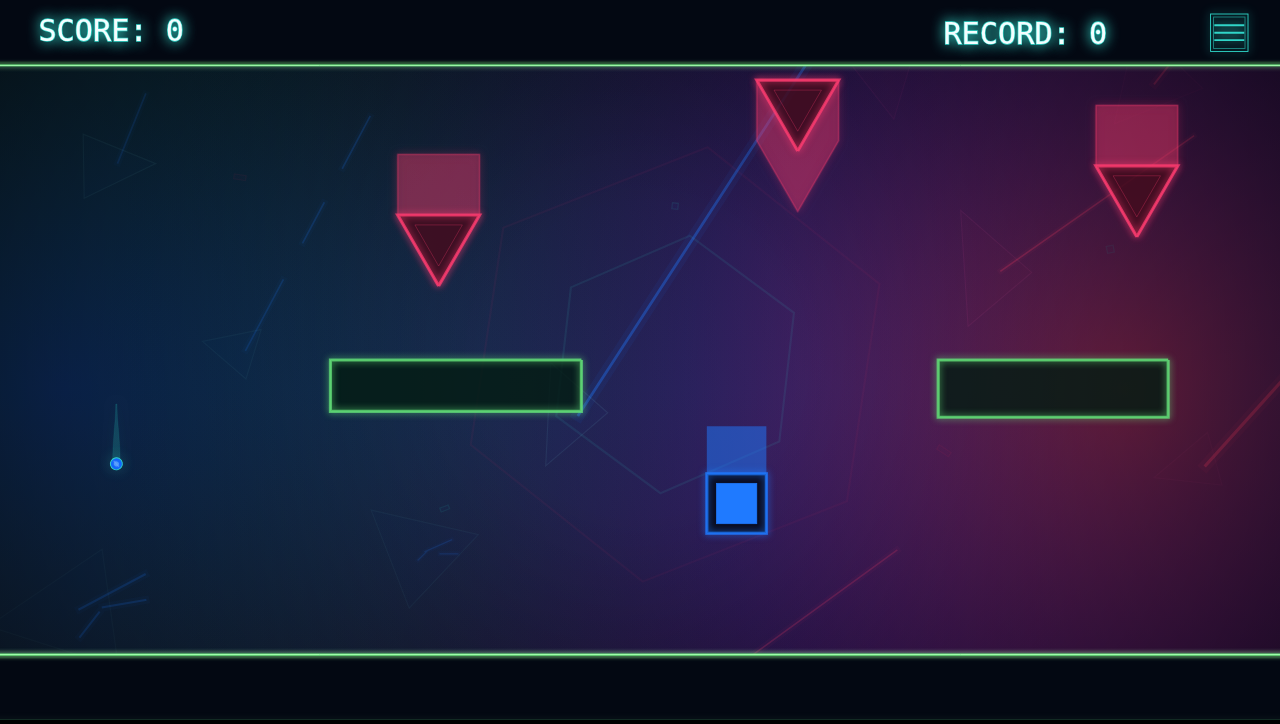
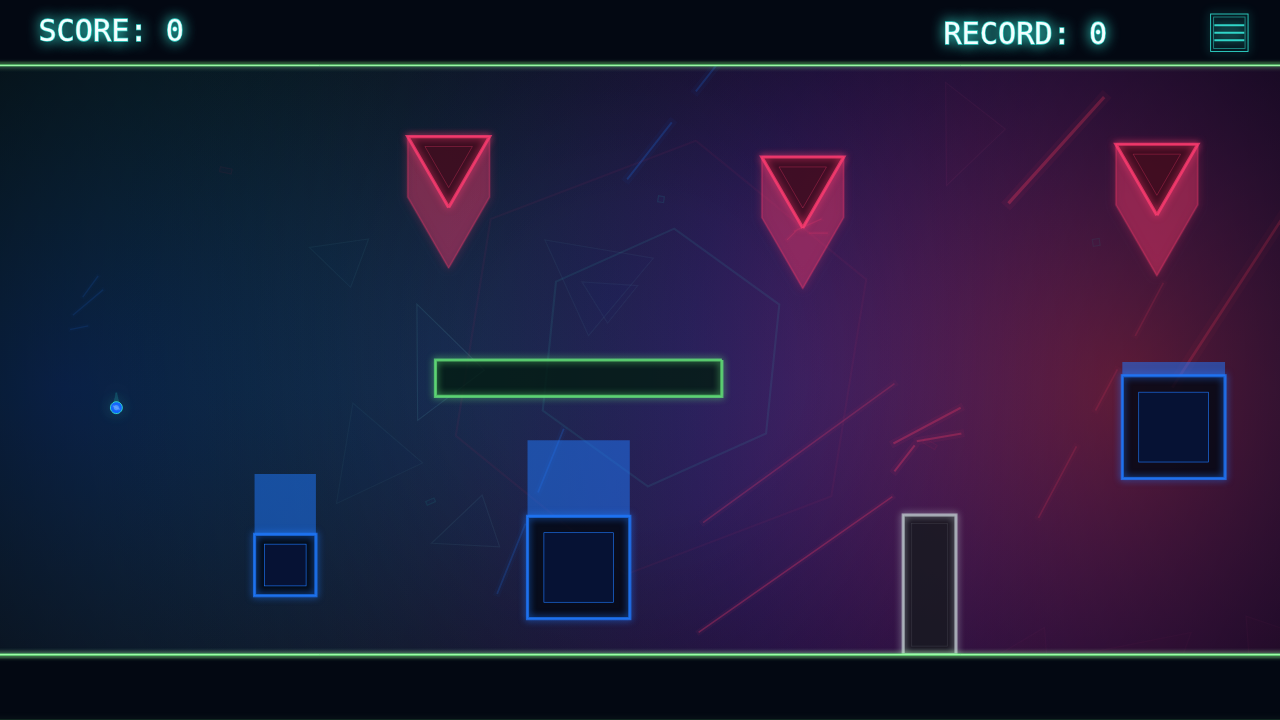
TASK-094: Stabilize decorative triangle random positions

diff --git a/render/effects.js b/render/effects.js
@@ -460,13 +460,9 @@ class BackgroundRenderer
     }
     getRandomizedTriangles(triangleTemplates, geometry)
     {
-        const refreshMs = geometry.triangleRefreshMs
-            || geometry.flashRefreshMs
-            || STYLE.timing.backgroundStreakMs
-        const bucket = Math.floor(performance.now() / refreshMs)
         const cached = this.randomTriangleCache.get(triangleTemplates)
 
-        if (cached && cached.bucket == bucket)
+        if (cached)
             return cached.triangles
 
         const triangles = triangleTemplates.map(triangle => Object.assign({}, triangle, {
@@ -474,7 +470,7 @@ class BackgroundRenderer
             y: Math.random()
         }))
 
-        this.randomTriangleCache.set(triangleTemplates, {bucket, triangles})
+        this.randomTriangleCache.set(triangleTemplates, {triangles})
 
         return triangles
     }

diff --git a/progress.md b/progress.md
@@ -164,3 +164,4 @@ TASK-095: Added portrait-phone forced landscape canvas presentation with rotated
 TASK-091: Restored the live gameplay FPS counter to its smaller pre-task sizing while keeping main/pause FPS checkbox text and square matched to back-to-menu text; verified classic/bad toggles, inspected screenshots/TASK-091.png, no JS errors, and valid JSON. Gotcha: the latest acceptance note says only menu texts should be enlarged, so the tiny in-game FPS panel is intentional.
 TASK-092: Changed blue cube inset shells from bright blue to opaque dark blue in classic and bad versions; browser pixel probes confirmed trail-overlapped shell samples are #061234 alpha 255, no JS errors, valid JSON, and refreshed screenshots/TASK-092.png. Gotcha: screenshot uses a deterministic forced cube/trail overlap so the shell opacity and color are easy to inspect.
 TASK-093: Kept randomized background flash positions stable during active play and reset them only on version start or death/restart; browser probes confirmed classic/bad stability past the old refresh interval, restart randomization, side-based palettes, inspected screenshots/TASK-093.png, no JS errors, and valid JSON. Gotcha: one static 404 resource noise was ignored during browser checks.
+TASK-094: Kept randomized decorative background triangle positions stable during active play and reset them only on version start or death/restart; verified classic/bad coverage, side-based palettes, screenshot inspection, no JS errors, and valid JSON. Gotcha: screenshots/ is ignored, so TASK-094.png must be force-added.
